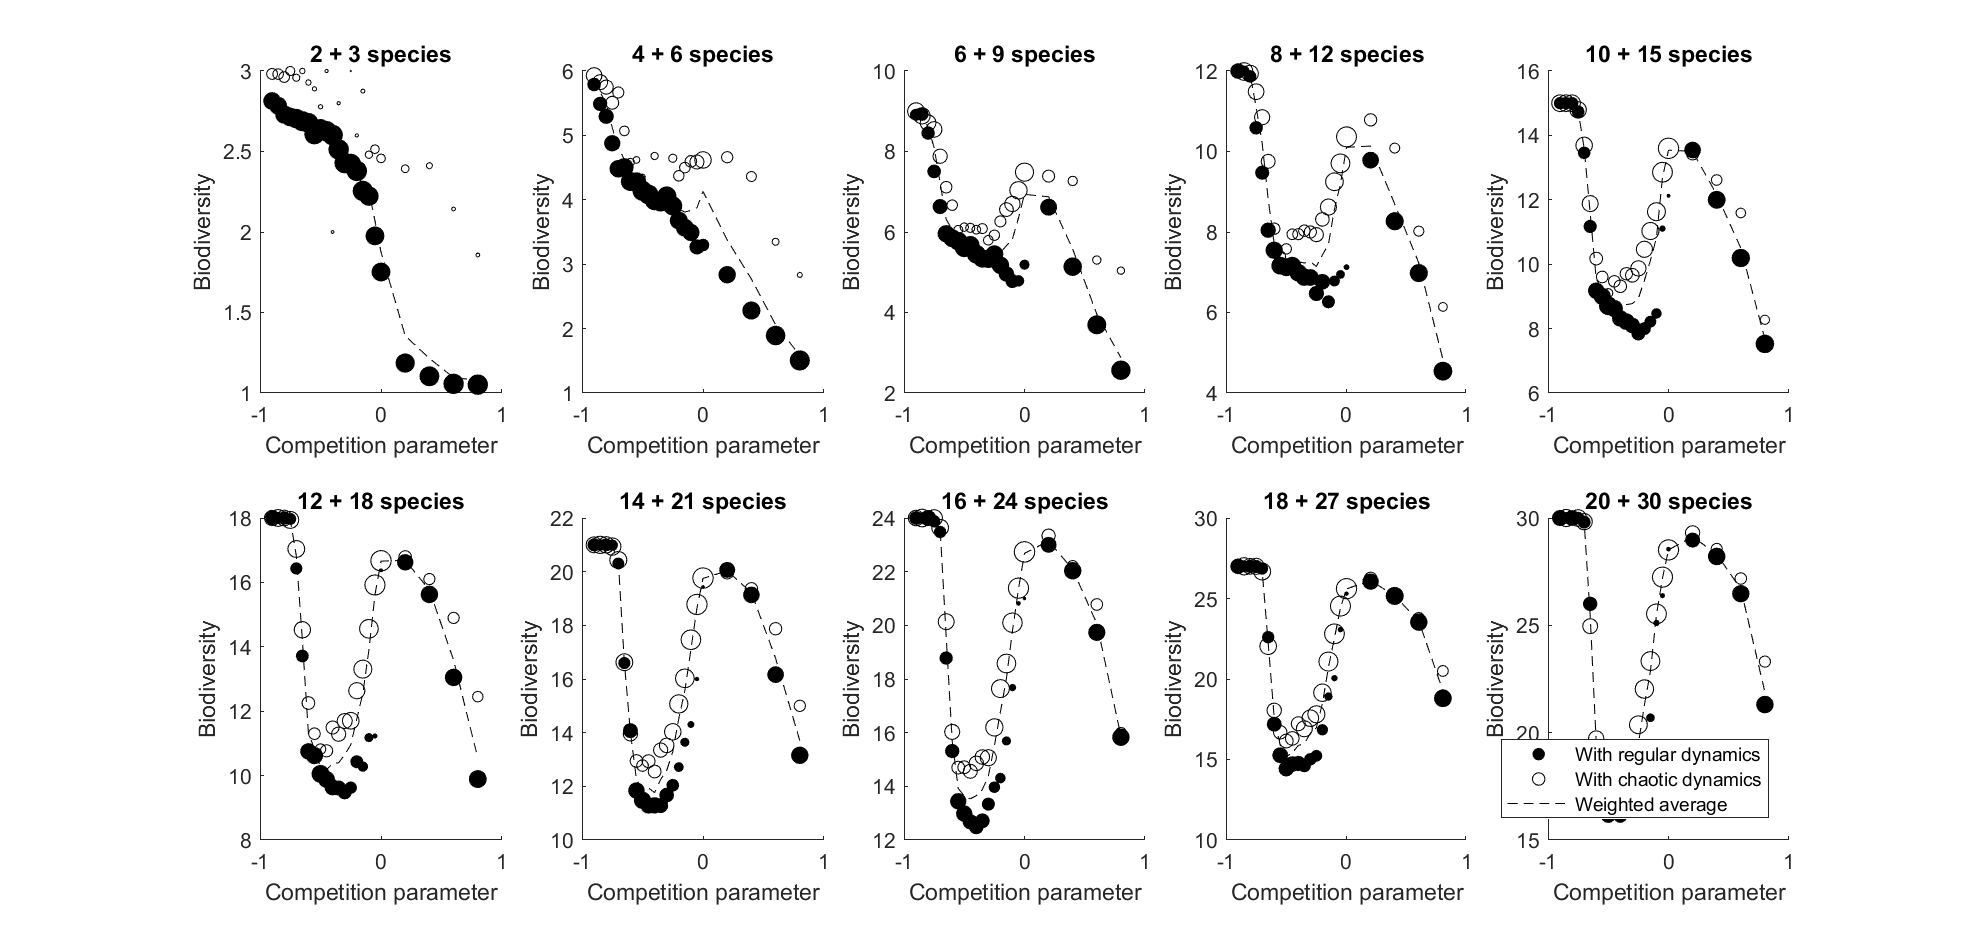
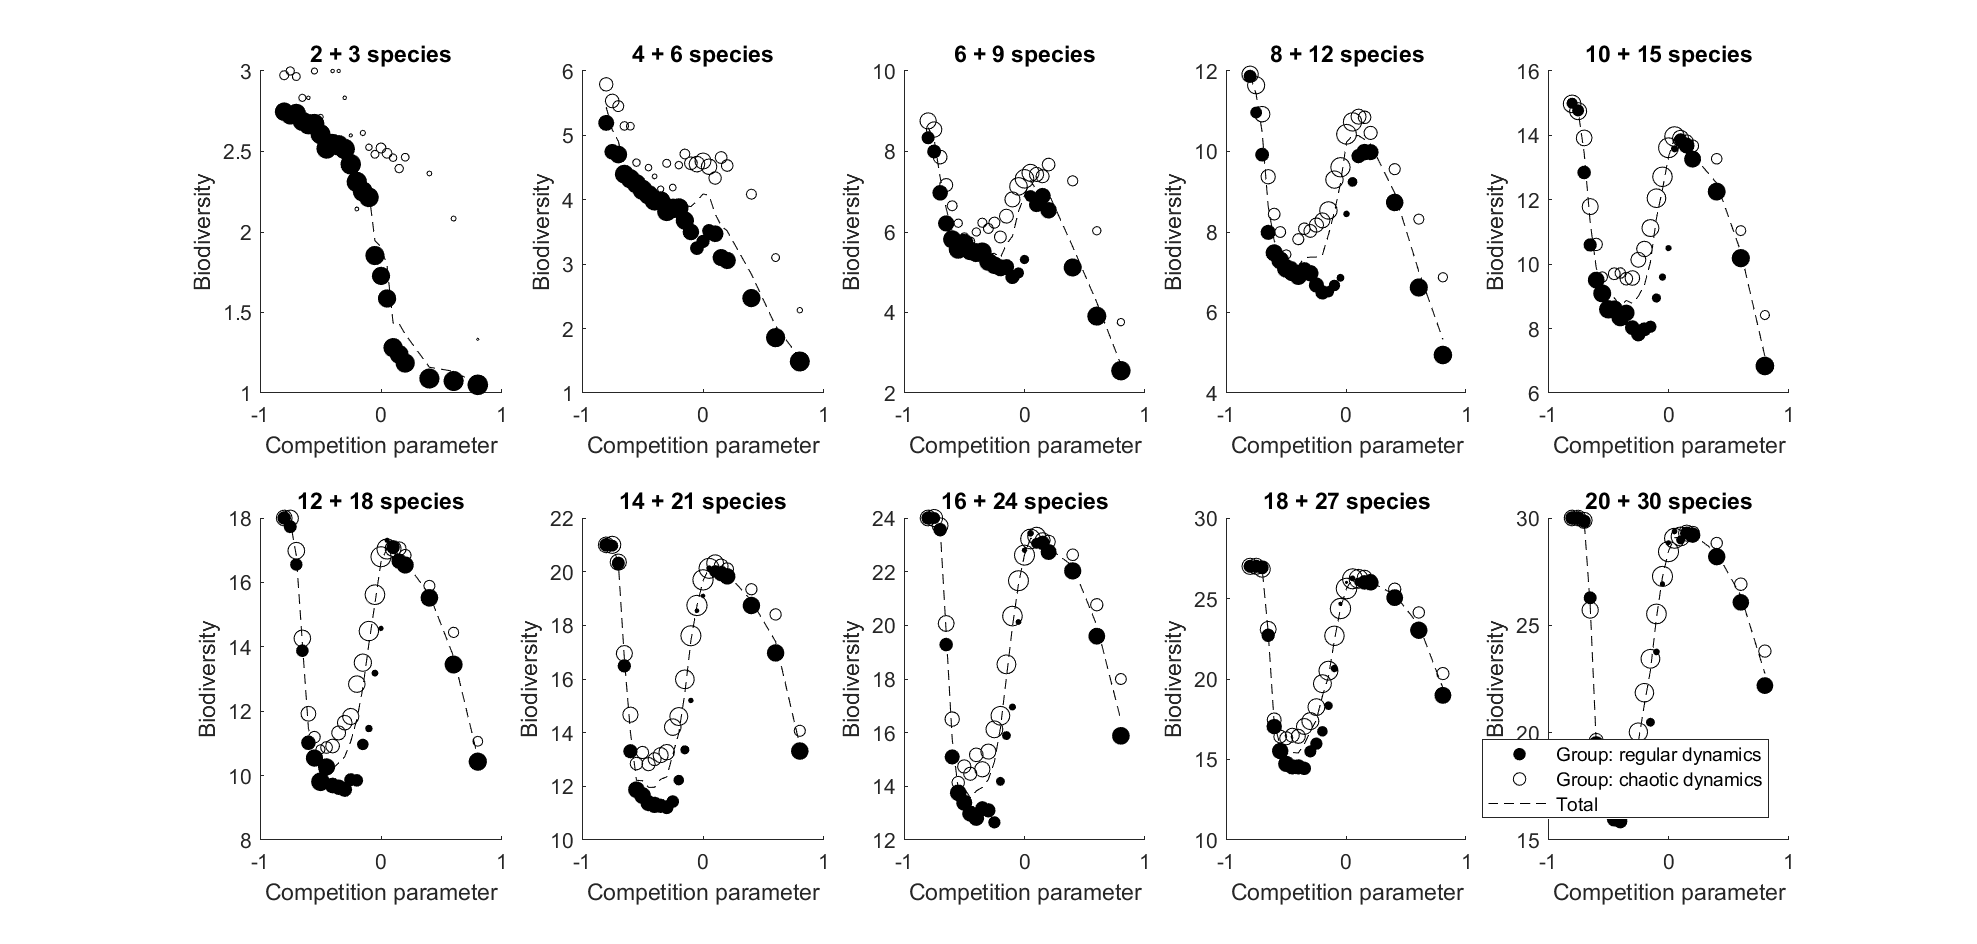
Implememented biodiversity in main body of the paper

diff --git a/paper/tex/04-results.tex b/paper/tex/04-results.tex
@@ -1,5 +1,6 @@
 \section{Results}
 \label{sec:Results}
+% Chaos
 Plotting the probability of chaos against the competition parameter (see figure \ref{fig:Results}), we observe a clear maximum around $ \epsilon = 0 $. The likelihood of chaotic behaviour for neutral competition at the prey's trophic level is thus higher than for dominant inter or intraspecific competition. This result remains true for systems with a different number of species (figures \ref{fig:Results} and \ref{fig:Contour}).
 
 The overall likelihood of chaos, which can be interpreted as the area under the curve in figure \ref{fig:Results}, increases with the size of the food web. This effect should not be surprising: the more dimensions the phase space has, the easier is to fulfill the requirements of the complex geometry of a chaotic attractor \citep{Strogatz1994}. Even in those higher dimensional cases, there is still a clear maximum at neutral competition. Another local maximum was observed for low values of $ \epsilon $, meaning that weak competitive coupling also promotes chaos in our model.
@@ -8,7 +9,7 @@ The overall likelihood of chaos, which can be interpreted as the area under the 
 	\begin{center}
 		\includegraphics[width=1\columnwidth]{results.png}
 	\end{center}
-	\caption{Results for a low, medium and high dimensional system. The consumers' population is fixed as $ 2/3 $ of the prey's population. Notice how the probability of chaos has a local maximum around $\epsilon = 0$. The effect remains true for systems with different number of species. The overall probability of chaos, understood as the area under the curve, grows with the system size. }
+	\caption{Results for a low, medium and high dimensional system. The size of the food web is specified as number of predator species + number of prey species. The probability of chaos has a local maximum around $\epsilon = 0$. The effect remains true for food webs with different number of species. The overall probability of chaos, understood as the area under the curve, grows with the system size. }
 	\label{fig:Results}
 \end{figure}
 
@@ -18,4 +19,15 @@ The overall likelihood of chaos, which can be interpreted as the area under the 
 	\end{center}
 	\caption{Contour map showing the probability of chaos for various competition parameters (horizontal axis) and number of species (vertical axis). The consumers' population is fixed as $ 2/3 $ of the prey's population. Notice that chaotic attractors appear more easily (i.e., for smaller systems) the closer is the competition to neutral (i.e., $ \epsilon = 0 $).}
 	\label{fig:Contour}
+\end{figure}
+
+% Biodiversity
+Our biodiversity measures (see figure \ref{fig:Biodiversity}) illustrate two effects: chaos clearly tends to increase biodiversity in our model and overall biodiversity is very close to its maximum around neutrality.
+
+\begin{figure}
+	\begin{center}
+		\includegraphics[width=1\columnwidth]{best.png}
+	\end{center}
+	\caption{Results for a food web with $10$ predator and $15$ prey species. Food webs of different sizes are qualitatively equivalent (see \ref{subsec:ExtraFigures} in Online Appendix). For each value of the competition parameter, $\numReps$ randomly drawn ecosystems were simulated and classified as regular or chaotic. Additionally, the number of non-extinct prey species after an stabilization run was registered. \textbf{Panel A} Probability of chaos vs. competition parameter. The proportion of ecosystems tagged as chaotic was used as an estimator of the probability of chaos. \textbf{Panel B} Average prey biodiversity vs. competition parameter. The dashed line shows the average number of non-extinct prey species grouped by competition parameter. The black and white circles represent the average prey biodiversity of the simulations, additionally grouped by the type of asymptotic dynamics (regular and chaotic, respectively). The relative size of the black and white circles represents the proportion of simulations that led to regular or chaotic dynamics. \textbf{Panel C} Biodiversity vs. asymptotic regime. Box and whisker plot of the number of non-extinct prey species grouped by asymptotic regime, regardless of the competition parameter.}
+	\label{fig:Biodiversity}
 \end{figure}

diff --git a/paper/tex/03-methods.tex b/paper/tex/03-methods.tex
@@ -101,8 +101,10 @@ Our target is to estimate the probability of reaching one of such chaotic attrac
 
 Numerical methods were used to integrate each realization of the equation \eqref{eq:SystemUnderStudy}. A first stabilizing run of $ \stabilTime $ days is executed in order to get closer to the attractor. Simulating for $ \simTime $ more days, we obtain trajectories in the vicinity of the attractor.
 
-The ratio of attractors found to be chaotic can be used to estimate the probability of a family of ecosystems to develop chaotic behaviour. Grouping those ecosystems by competition parameter $\epsilon$, we explored the relationship between the probability of chaos and the degree of heterogeneity. We considered chaotic those time series that triggered the Gottwald - Melbourne test (see \citet{Gottwald2009} and section \ref{subsec:ChaosDetection} in the Online Appendix). Using this approach, we classified each individual simulation as \textit{chaotic} or \textit{non-chaotic}.
+The ratio of attractors found to be chaotic can be used to estimate the probability of a family of ecosystems to develop chaotic behaviour. Grouping those ecosystems by competition parameter $\epsilon$, we explored the relationship between the probability of chaos and the degree of heterogeneity. We considered chaotic those time series that triggered the Gottwald - Melbourne test (see \citet{Gottwald2009} and section \ref{subsec:ChaosDetection} in the Online Appendix). Using this approach, we classified each individual simulation as \textit{regular} or \textit{chaotic}.
 
-Additionally, the experiment was repeated for food webs of different sizes. In our simulations, we kept a ratio of 2:3 for the number of species at the consumer and the prey level.
+Additionally, we used the simulated time series to estimate the number of extinct prey species when the attractor is reached. We considered extinct those species whose population density remained below a threshold of $\bioThreshold$ $mg$ $l^{-1}$ after the stabilization run. The number of non-extinct prey species was used as a biodiversity measure for each individual simulation.
+
+The numerical experiment was repeated for food webs of different sizes. In our simulations, we kept a ratio of 2:3 for the number of species at the consumer and the prey level.
 
 In the spirit of reproducible research, we made available the scripts used to obtain our conclusions and generate our figures \citep{Rodriguez-Sanchez-code-neuchaos}.

diff --git a/paper/tex/05-discussion.tex b/paper/tex/05-discussion.tex
@@ -1,9 +1,9 @@
 \section{Discussion}
 \label{sec:Discussion}
 % Our claims
-The asymptotic dynamics of our model are affected by the strength of intraspecific competition compared to interspecific competition. Interestingly, we find that competition closer to neutrality significantly increases the chances of chaotic behaviour. This suggests that in a system with predation, near-neutrality at the competition level may increase the probability of complex dynamics if the species are not equally prone to predation. 
+The asymptotic dynamics of our model are affected by the strength of intraspecific competition compared to interspecific competition. Interestingly, we find that competition closer to neutrality significantly increases the chances of chaotic behaviour. This suggests that in a system with predation, near-neutrality at the competition level may increase the probability of complex dynamics if the species are not equally prone to predation.
 
-Provided that the competitive exclusion principle rests on the assumption of equilibrium, near-neutrality reduces the chances of the principle to be applicable, improving the chance for a higher number of coexisting species if dynamics are chaotic  \citep{Huisman1999}. Additionaly, this observation suggests that the hypothesis of non-equilibrium and Hubbell's hypothesis of neutrality are not completely independent (see figure \ref{fig:GapInKnowledge}). 
+We also found a clear correlation between chaotic dynamics and a higher prey biodiversity, allowing to conclude that chaos improves the chances for a higher number of coexisting species in our model. This observation suggests that the hypothesis of non-equilibrium \citep{Huisman1999} and Hubbell's hypothesis of neutrality are not completely independent (see figure \ref{fig:GapInKnowledge}). 
 
 Our model shows another local maximum for the probability of chaos for weak competition coupling. We consider this a reasonable result, as predation is known to be the main driver of chaos in this kind of models \citep{Scheffer2004}.
 

diff --git a/paper/tex/00-preamble.tex b/paper/tex/00-preamble.tex
@@ -31,8 +31,8 @@
 \newcommand{\numReps}{200} % Number of repetitions
 \newcommand{\stabilTime}{2000} % Stabilization time
 \newcommand{\simTime}{5000} % Simulation time
-\newcommand{\numEpsilons}{23} % Number of epsilons to be tried
-\newcommand{\numExps}{4600} % Total number of experiments \numReps * \numEpsilons
+\newcommand{\numEpsilons}{25} % Number of epsilons to be tried
+\newcommand{\numExps}{5000} % Total number of experiments \numReps * \numEpsilons
 \newcommand{\bioThreshold}{0.01} % Threshold to consider extinction
 
 \usepackage{authblk}

diff --git a/paper/reviews/submissions/2018-07.2 amnat/2018-09-19 by Am.Nat major revisions.md b/paper/reviews/submissions/2018-07.2 amnat/2018-09-19 by Am.Nat major revisions.md
@@ -64,7 +64,8 @@ Based on these issues, I think we should decline the manuscript.  I suggest we d
 - [x] l.160-161 - this probably doesn't need to be stated
 - [ ] l.163 - how do we know these are the asymptotic dynamics?  complex systems can have long transients
   - This is indeed a fundamental problem. As far as we know, there is no robust way of distinguishing a complicated transient from a chaotic attractor by numerical means alone. Our approach here rested in the key (but dangerous) idea of "simulating for long enough". In those cases where the system landed in a stable or cyclic attractor, we could clearly distinguish between transient and asymptotic dynamics. We made sure that our stabilization time was much longer than the typical timescales of those clearly identified transients. We assumed that the transients for the chaotic cases will have similar time scales.
-- [ ] l.168 - the CEP isn't really relevant here, because the Lotka-Volterra competition formulation implies more than 1 resource, and the predators are limiting factors too (Holt 1977, Chesson & Kuang 2008)
+- [x] l.168 - the CEP isn't really relevant here, because the Lotka-Volterra competition formulation implies more than 1 resource, and the predators are limiting factors too (Holt 1977, Chesson & Kuang 2008)
+  - True. The reference to CEP has been removed.
 - [ ] l.182-189 - even without the predators, the model here isn't neutral, it's neutral on average (see above)
 - [ ] l.208-210 - if the different measures of chaos give different results, how do we know which is correct?
 - [x] Appendices - restart labeling figures and equations at A.1
